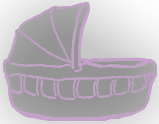
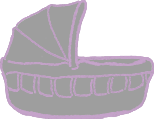
c pr toi sharaphe

diff --git a/css/styleStation.css b/css/styleStation.css
@@ -372,9 +372,9 @@ li::after{
 
 #romain{
     position: absolute;
-    left: 32%;
+    left: 32.2%;
     bottom : 3vh;
-    width: 12%;
+    width: 11.5%;
     height: auto;
     border-radius: 10%;
     
